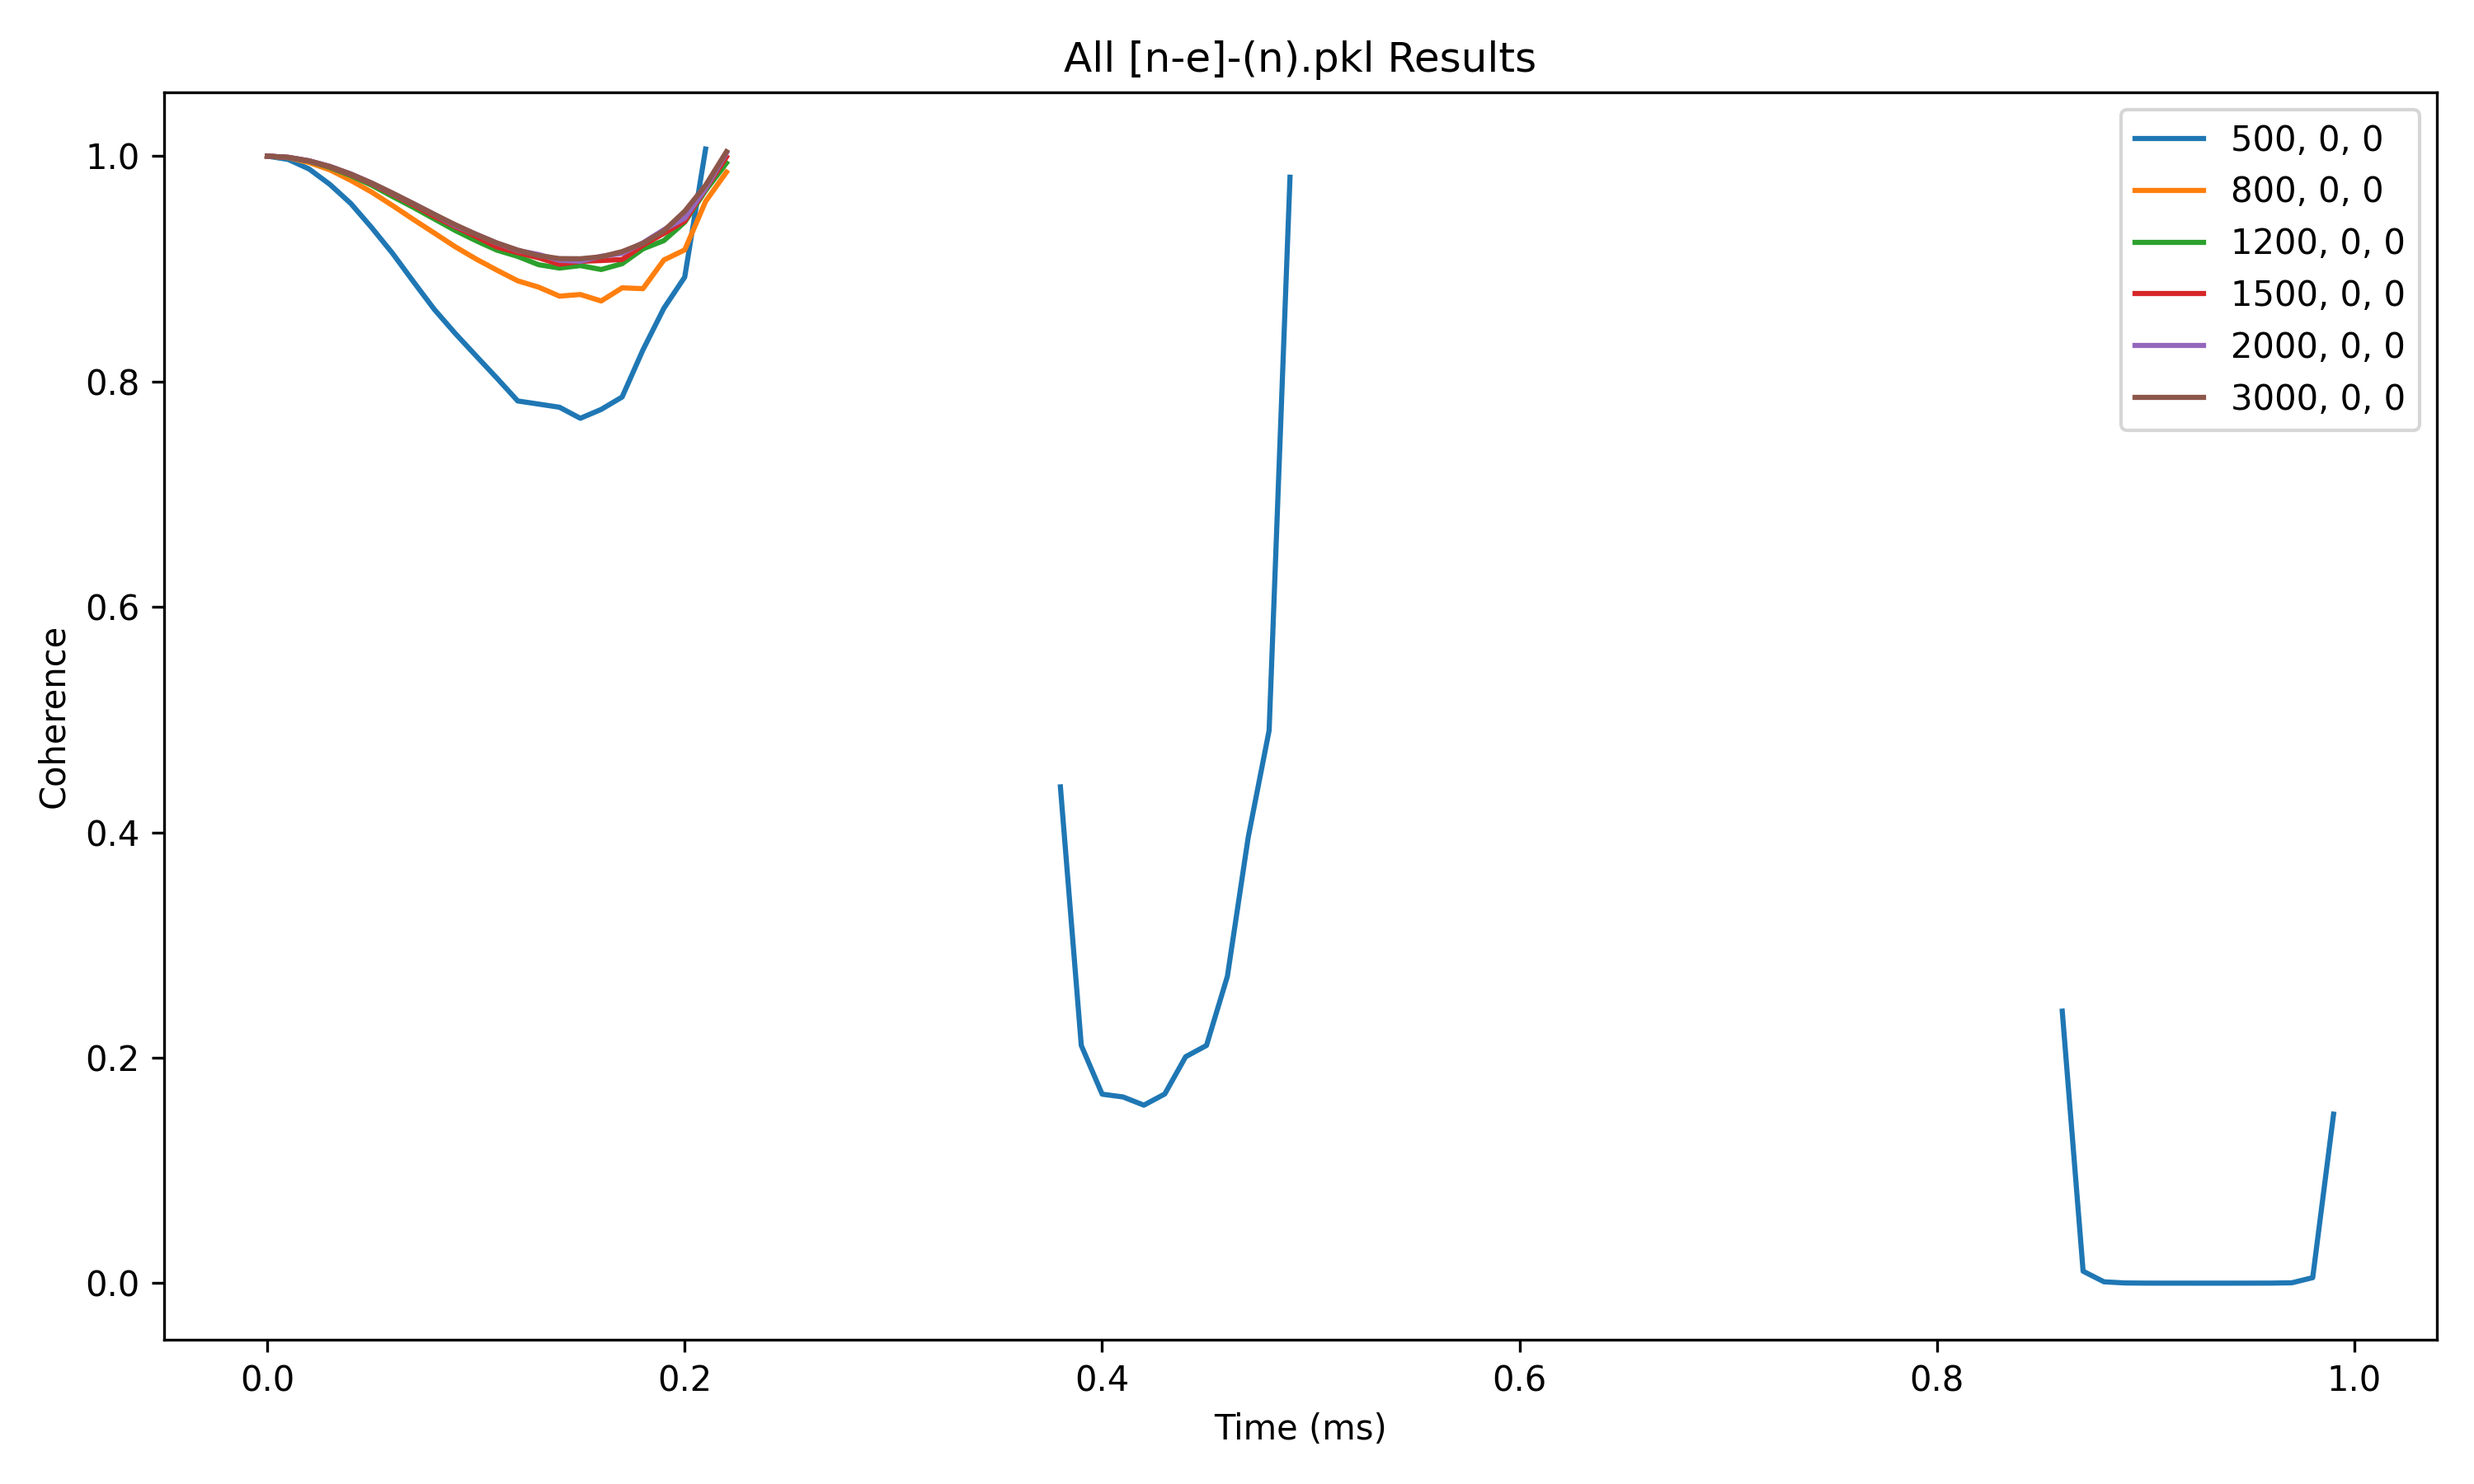
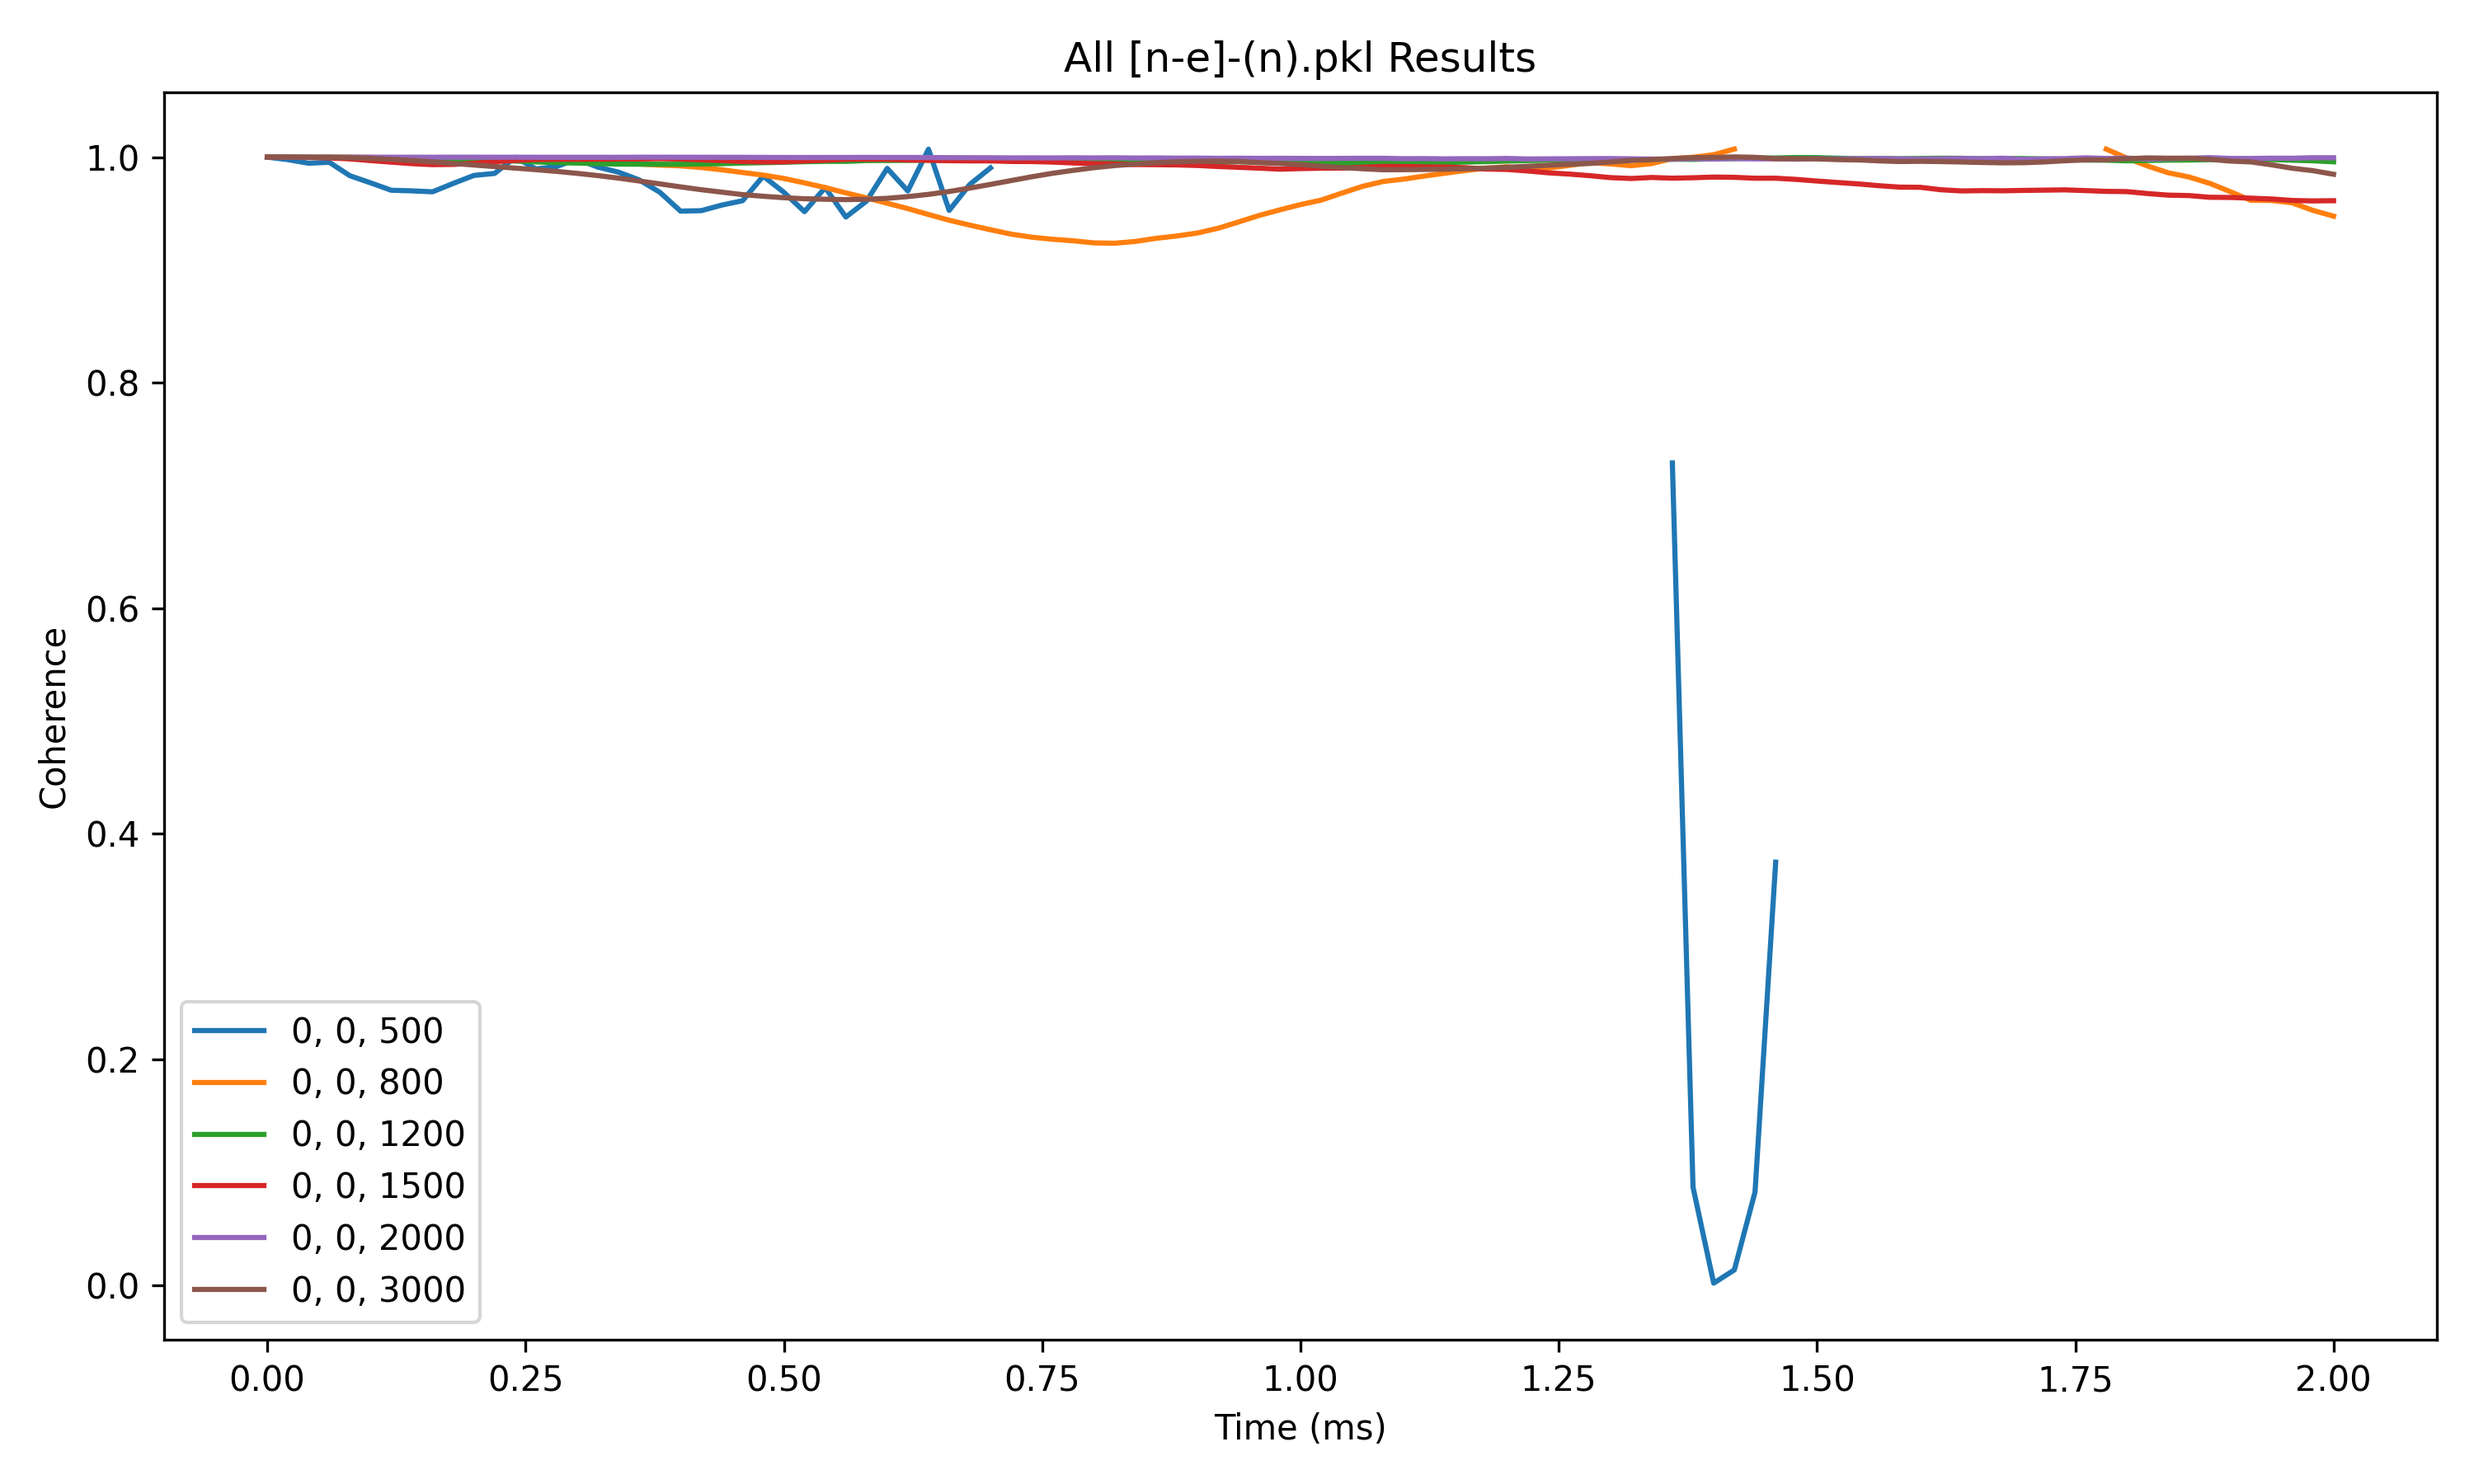
[n-e]-n with x-z swap

diff --git a/VOTPP folder/VOTPP_[n-e]-(n).py b/VOTPP folder/VOTPP_[n-e]-(n).py
@@ -139,7 +139,7 @@ nbstates_list = [128,]
 # r_dipole_list = [8,]
 # cell_size_list = [60,]
 
-timespace_absolute = np.linspace(0, 1, 101)
+timespace_absolute = np.linspace(0, 2, 101)
 
 pulse_bath = pc.Pulse(axis='z', angle='2*pi/3', delay=timespace_absolute / 2,) 
                     #   bath_names=('1H', '2H',
@@ -154,12 +154,19 @@ hahn_echo_sequence = pc.Sequence([
                                 pulse_bath,
                                 ])
 
+hahn_echo_sequence = pc.Sequence([ 
+    pc.Pulse(axis='x', angle='pi/2', delay=np.zeros(timespace_absolute.size),
+                bath_names=('51V',
+                )), # 120° pulse around x-axis applied to bath spins),
+    pc.Pulse(axis='x', angle='pi', delay=timespace_absolute/2,
+                bath_names=('51V',
+                ))]) # 120° pulse around x-axis applied to bath spins ])
+
 default_calc_parameters = {
     'timespace': timespace_absolute, # 7e-2
     'method': 'gcce',
     # 'pulses': [('x', ((2*np.pi)/3), timespace_absolute / 2), ('x', ((2*np.pi)/3), timespace_absolute / 2)], # Paper defines a Hahn-echo pulse sequence with 2pi/3 pulses?
     # 'pulses': [('x', np.pi, timespace_absolute / 2), ('x', np.pi, timespace_absolute / 2)], # Paper defines a Hahn-echo pulse sequence with 2pi/3 pulses?
-    'pulses': hahn_echo_sequence,
     'nbstates': 10, #!
     'quantity': 'coherence',
     'parallel': True,
@@ -173,15 +180,16 @@ default_bath_parameters = {
 }
 
 default_simulator_parameters = { ########## These should be greater when simulating with HPC
-    'order': 2, #!
-    'r_bath': 10, #16,
+    'order': 3, #!
+    'r_bath': 7, #16,
     'r_dipole': 5, #6,
-    'magnetic_field': [3000, 0, 0], # Magnetic field in Gauss
+    'magnetic_field': [0, 0, 3000], # Magnetic field in Gauss
     'pulses': hahn_echo_sequence,
 }
 
-# magnetic_field_list = [[3000,0,0]]
-magnetic_field_list = [[500, 0, 0,], [800, 0, 0,], [1200, 0, 0,], [1500, 0, 0,], [2000, 0, 0,], [3000, 0, 0,]]
+# magnetic_field_list = [[0,0,3000]]
+magnetic_field_list = [[0,0,500], [0,0,800], [0,0,1200], [0,0,1500], [0,0,2000], [0,0,3000]]
+# magnetic_field_list = [[500, 0, 0,], [800, 0, 0,], [1200, 0, 0,], [1500, 0, 0,], [2000, 0, 0,], [3000, 0, 0,]]
 #####################################################################
 # Set up runner and run the simulation
 #####################################################################
@@ -236,7 +244,7 @@ for idx, seed in enumerate(seed_list):
     magnetic_results[seed] = runner(
                         concentration_value=default_bath_parameters['concentration'],
                         changing_variable='magnetic_field', variable_values=magnetic_field_list,
-                        num_spins=1, spin_type='nuclear',
+                        num_spins=2,# spin_type='nuclear',
                         alpha = 4,
                         beta = 5,
                         bath_parameters=default_bath_parameters, simulator_parameters=default_simulator_parameters, calc_parameters=default_calc_parameters,
